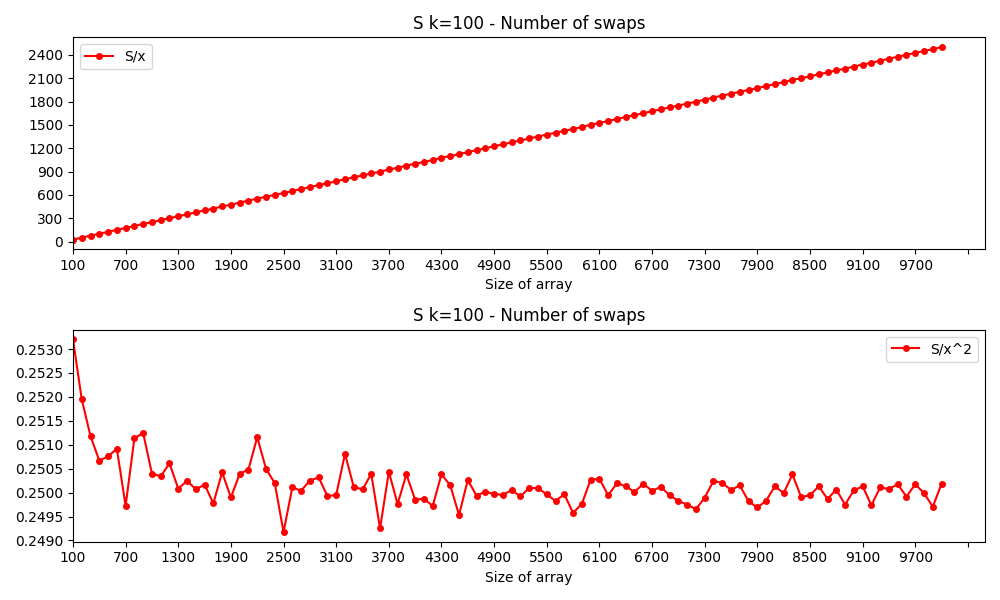
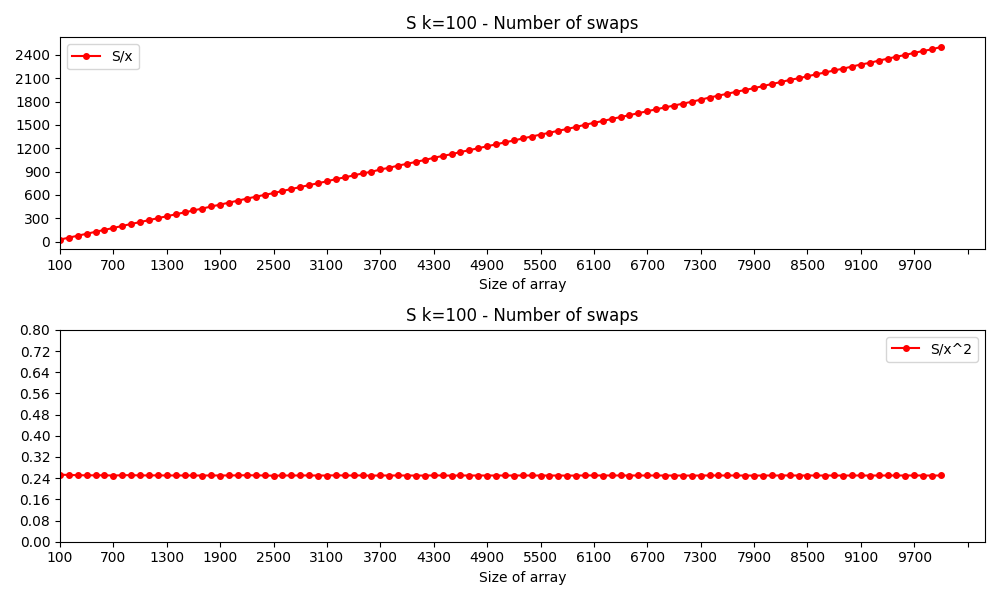
Redo plots

diff --git a/zad1/plot.py b/zad1/plot.py
@@ -115,7 +115,7 @@ if __name__ == '__main__':
   mapped_avg_plot(data=funcs['bn'], axes=ax[0], title=funcs_titles['bn'], func=lambda x, y: y / x, func_label='Bn/x')
   setup_plot(ax[0])
   mapped_avg_plot(data=funcs['bn'], axes=ax[1], title=funcs_titles['bn'], func=lambda x, y: y / np.sqrt(x), func_label='Bn/sqrt(x)')
-  
+  ax[1].set_ylim(0.0, 10)
   # Big-O test
   # down = [(x, 1/np.sqrt(x)) for x in range(100, 100000, 100)]
   # upper = [(x, 500/np.sqrt(x)) for x in range(100, 100000, 100)]
@@ -133,6 +133,7 @@ if __name__ == '__main__':
   # Uns
   fig, ax = plt.subplots(1, 1, figsize=(10, 3))
   mapped_avg_plot(data=funcs['un'], axes=ax, title=funcs_titles['un'], func=lambda x, y: y / x, func_label='Un/n')
+  ax.set_ylim(0.0, 0.8)
   setup_plot(ax)
   fig.tight_layout()
   fig.show()
@@ -141,8 +142,10 @@ if __name__ == '__main__':
   # Lns
   fig, ax = plt.subplots(3, 1, figsize=(10, 9))
   mapped_avg_plot(data=funcs['ln'], axes=ax[0], title=funcs_titles['ln'], func=lambda x, y: y / np.log(x), func_label='Ln/ln(n)')
+  ax[0].set_ylim(0.4, 1)  
   setup_plot(ax[0])
   mapped_avg_plot(data=funcs['ln'], axes=ax[1], title=funcs_titles['ln'], func=lambda x, y: y / (np.log(x) / np.log(np.log(x))), func_label='Ln/ln(n)/ln(ln(n))')  
+  ax[1].set_ylim(1.2, 2.5)  
   setup_plot(ax[1])
   mapped_avg_plot(data=funcs['ln'], axes=ax[2], title=funcs_titles['ln'], func=lambda x,y : y / np.sqrt(x), func_label='Ln/sqrt(n)')
   setup_plot(ax[2])
@@ -153,8 +156,10 @@ if __name__ == '__main__':
   # Cns
   fig, ax = plt.subplots(3, 1, figsize=(10, 9))
   mapped_avg_plot(data=funcs['cn'], axes=ax[0], title=funcs_titles['cn'], func=lambda x, y: y / x, func_label='Cn/n')
+  ax[0].set_ylim(7, 16) 
   setup_plot(ax[0])
   mapped_avg_plot(data=funcs['cn'], axes=ax[1], title=funcs_titles['cn'], func=lambda x, y: y / (x * np.log(x)), func_label='Cn/nln(n)')  
+  ax[1].set_ylim(0.5, 2)   
   setup_plot(ax[1])
   mapped_avg_plot(data=funcs['cn'], axes=ax[2], title=funcs_titles['cn'], func=lambda x,y : y / (x * x), func_label='Cn/n^2')
   setup_plot(ax[2])
@@ -165,8 +170,10 @@ if __name__ == '__main__':
   # Dns
   fig, ax = plt.subplots(3, 1, figsize=(10, 9))
   mapped_avg_plot(data=funcs['dn'], axes=ax[0], title=funcs_titles['dn'], func=lambda x, y: y / x, func_label='Dn/n')
+  ax[0].set_ylim(9, 17) 
   setup_plot(ax[0])
   mapped_avg_plot(data=funcs['dn'], axes=ax[1], title=funcs_titles['dn'], func=lambda x, y: y / (x * np.log(x)), func_label='Dn/nln(n)')  
+  ax[1].set_ylim(1, 2)   
   setup_plot(ax[1])
   mapped_avg_plot(data=funcs['dn'], axes=ax[2], title=funcs_titles['dn'], func=lambda x,y : y / (x * x), func_label='Dn/n^2')
   setup_plot(ax[2])
@@ -177,10 +184,13 @@ if __name__ == '__main__':
   # Dn-Cns
   fig, ax = plt.subplots(3, 1, figsize=(10, 9))
   mapped_avg_plot(data=funcs['dn_cn'], axes=ax[0], title=funcs_titles['dn_cn'], func=lambda x, y: y / x, func_label='(Dn-Cn)/n')
+  ax[0].set_ylim(0.5, 6.5) 
   setup_plot(ax[0])
   mapped_avg_plot(data=funcs['dn_cn'], axes=ax[1], title=funcs_titles['dn_cn'], func=lambda x, y: y / (x * np.log(x)), func_label='(Dn-Cn)/nln(n)')  
+  ax[1].set_ylim(0, 1) 
   setup_plot(ax[1])
   mapped_avg_plot(data=funcs['dn_cn'], axes=ax[2], title=funcs_titles['dn_cn'], func=lambda x,y : y / (x * np.log(np.log(x))), func_label='(Dn-Cn)/n^2')
+  ax[2].set_ylim(0, 2.5) 
   setup_plot(ax[2])
   fig.tight_layout()
   fig.show()

diff --git a/zad3/plot.py b/zad3/plot.py
@@ -128,6 +128,7 @@ if __name__ == '__main__':
   mapped_avg_plot(data=funcs['cmp'], axes=ax[0], title=funcs_titles['cmp'], func=lambda x, y: y / x, func_label='Cmp/x')
   setup_plot(ax[0])
   mapped_avg_plot(data=funcs['cmp'], axes=ax[1], title=funcs_titles['cmp'], func=lambda x, y: y / (x * x), func_label='Cmp/x^2')
+  ax[1].set_ylim(0, 0.8) 
   setup_plot(ax[1])
   fig.tight_layout()
   fig.show()
@@ -138,6 +139,7 @@ if __name__ == '__main__':
   mapped_avg_plot(data=funcs['s'], axes=ax[0], title=funcs_titles['s'], func=lambda x, y: y / x, func_label='S/x')
   setup_plot(ax[0])
   mapped_avg_plot(data=funcs['s'], axes=ax[1], title=funcs_titles['s'], func=lambda x, y: y / (x * x), func_label='S/x^2')
+  ax[1].set_ylim(0, 0.8)   
   setup_plot(ax[1])
   fig.tight_layout()
   fig.show()
